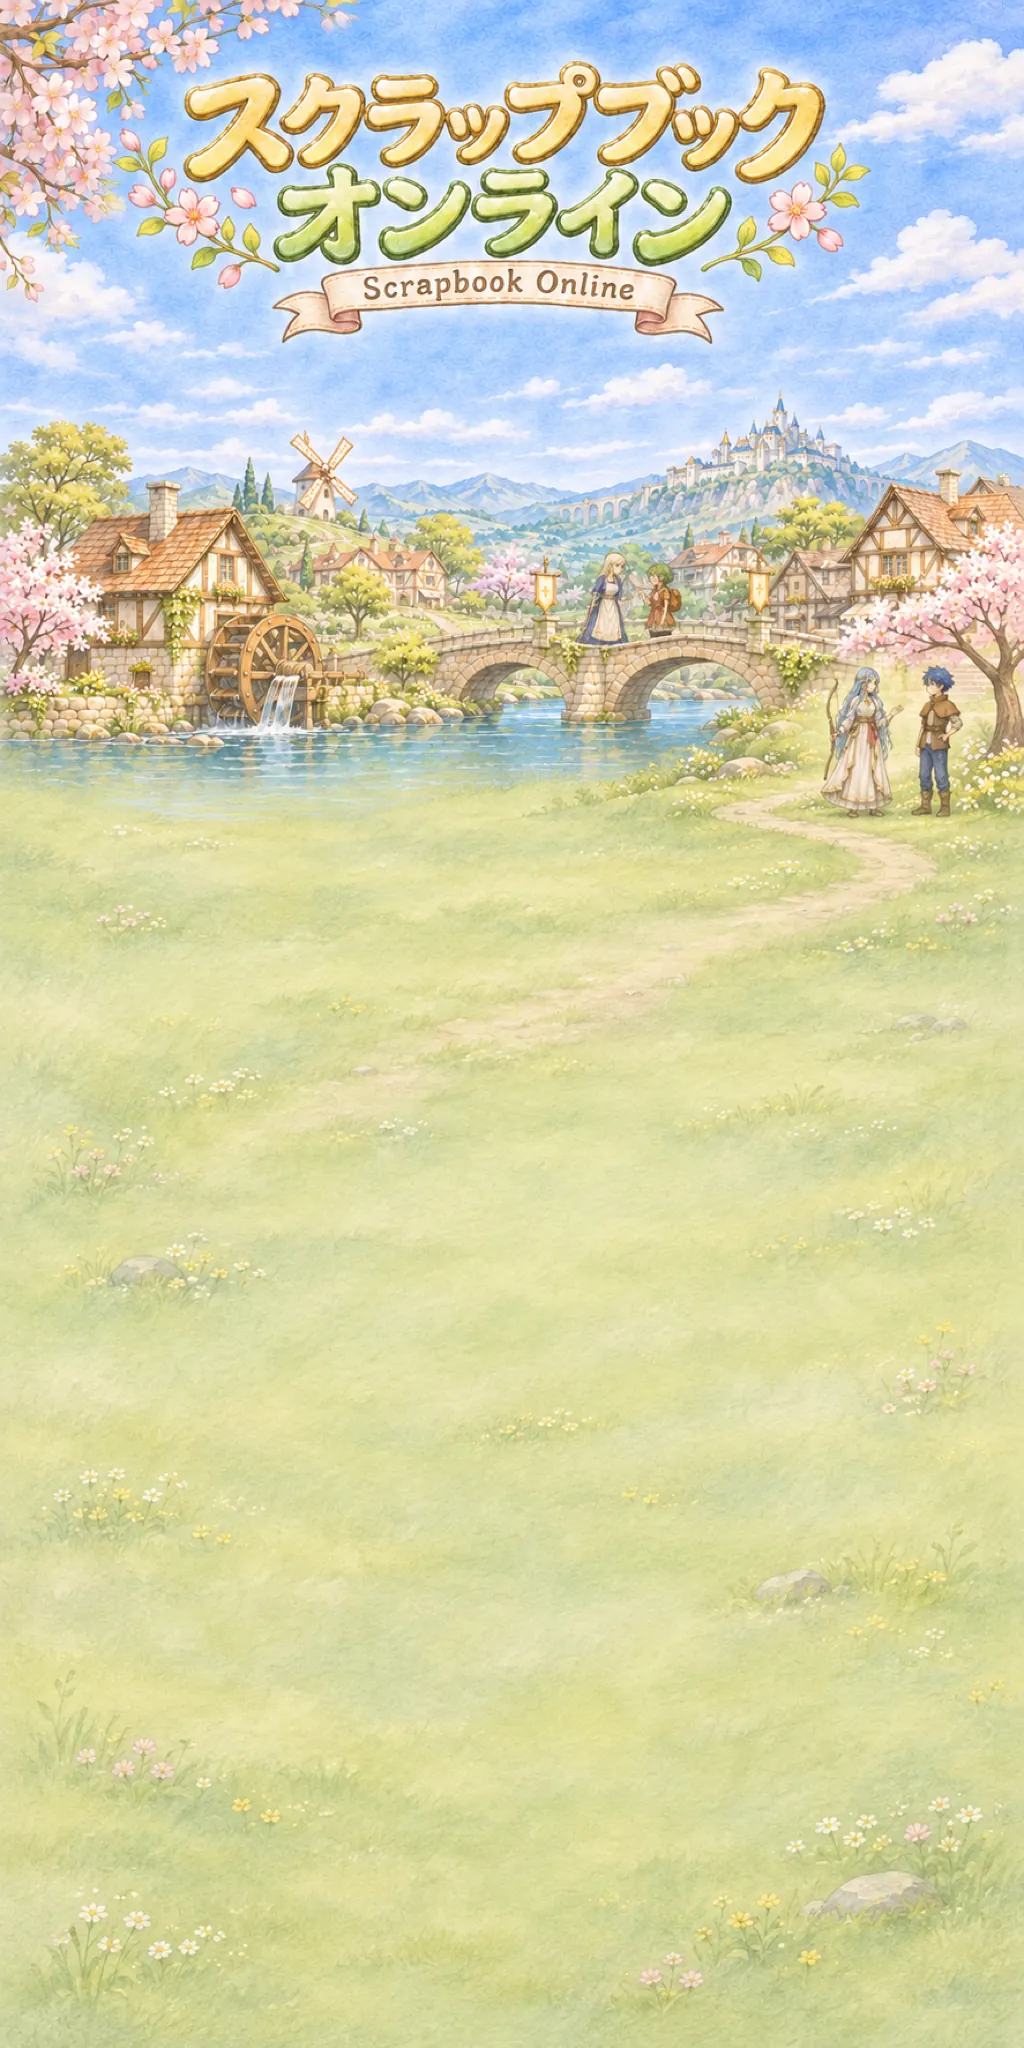
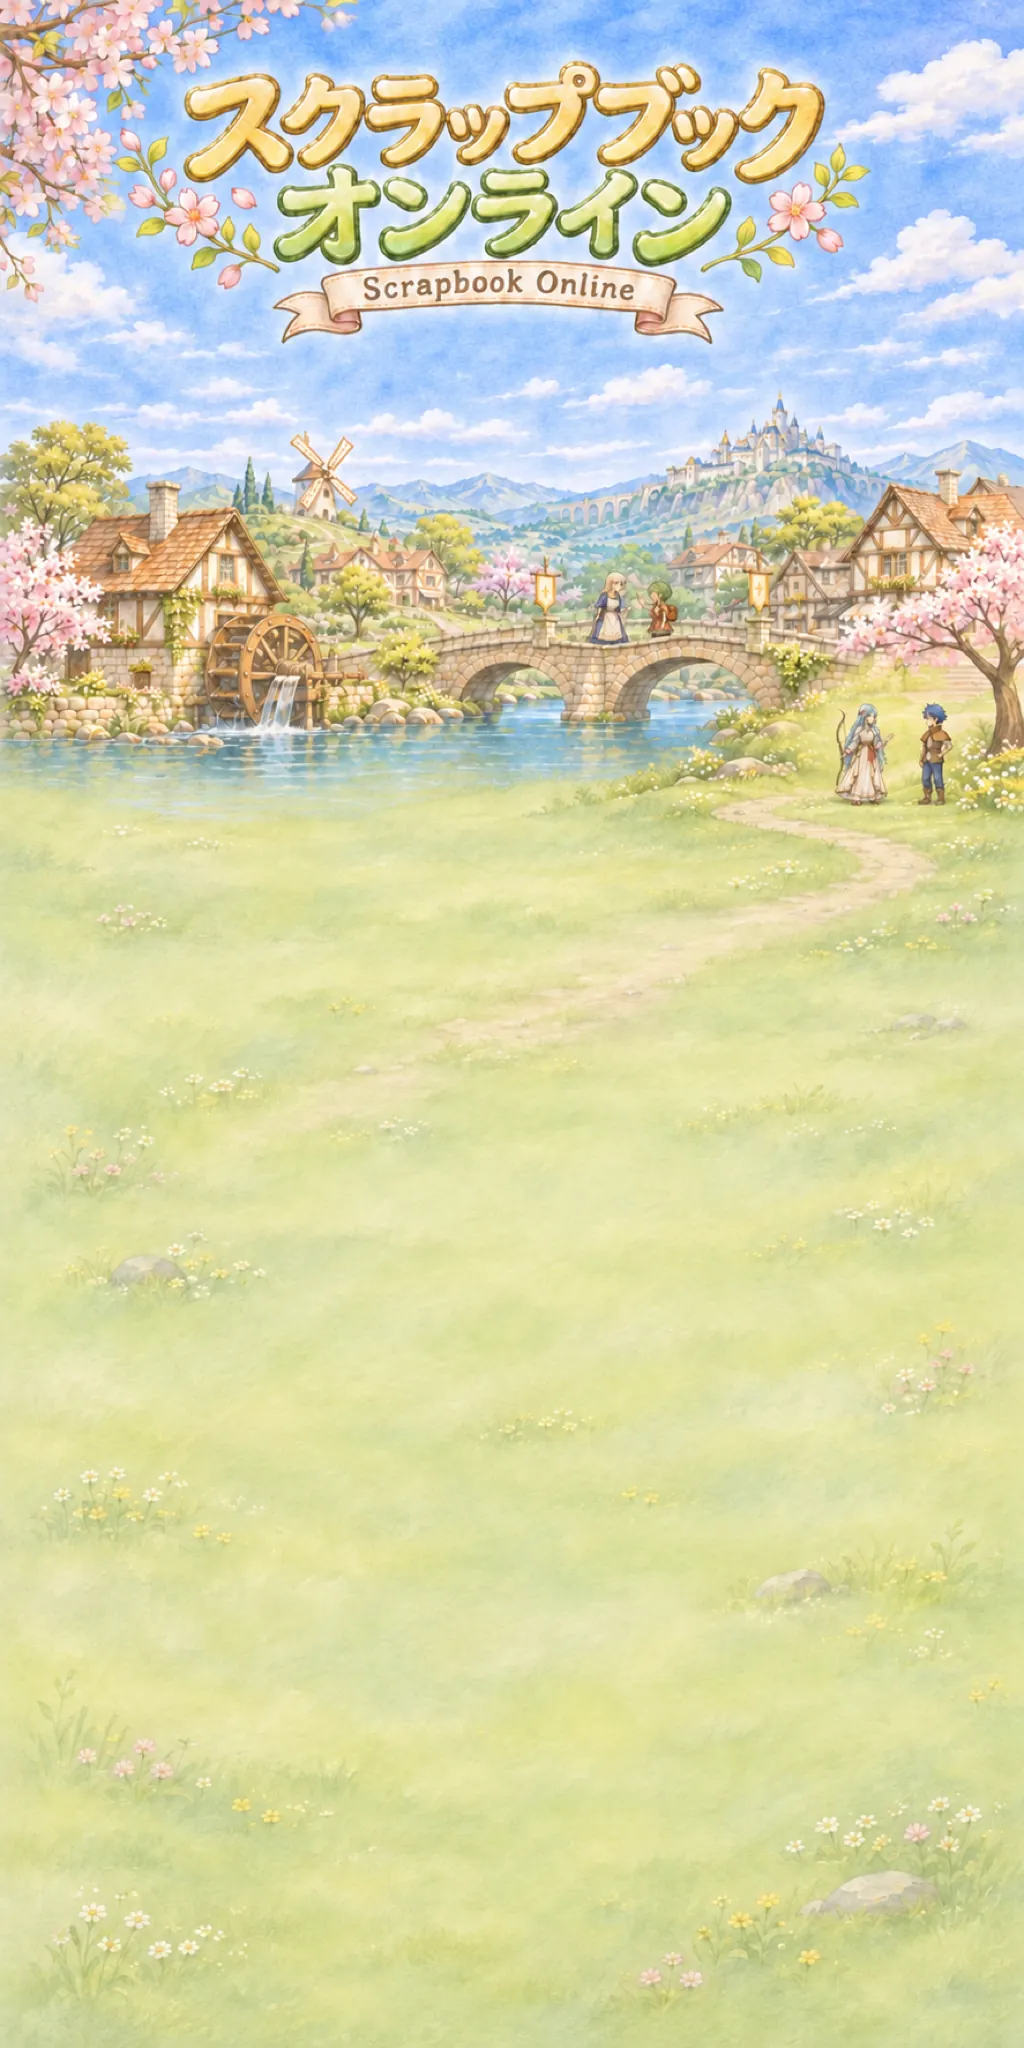
ログイン前ホーム画面：人物を小さくした背景に差し替え、PCのボタンを小道の中央に戻す
Claude-Session: https://claude.ai/code/session_01YTg7wiWpiHL6LhZnJLwoce

diff --git a/web/shell/sbocli.html b/web/shell/sbocli.html
@@ -1573,7 +1573,7 @@
 		--bg-ratio: 2;
 		--town-bottom: 0.42;
 		--bg-w: max(100vw, calc(100dvh / 2));
-		--bg-end: #cdd09b;
+		--bg-end: #ccd496;
 		--bg-h: calc(var(--bg-w) * var(--bg-ratio));
 		display: block;
 		overflow-x: hidden;
@@ -1645,8 +1645,8 @@
 		}
 	}
 	/* PC・横長（幅 900px 以上・高さ 560px 以上・横長）：絵は cover/center で固定。ロゴ・町（上〜約 50%）には何も重ねない。
-	   遊ぶボタンは小道の中央（絵の縦 83% 付近）、アカウント・管理は左下の草原、お知らせは右下の草原、リンクは最下段の帯。
-	   橋の上の 2 人（幅 49〜56%・縦 37〜46%）と小道の右の 2 人（幅 61〜74%・縦 63〜82%）には何も重ねない。 */
+	   遊ぶボタンは小道の中央（絵の縦 78〜88%）、アカウント・管理は左下の草原、お知らせは右下の草原、リンクは最下段の帯。
+	   橋の上の 2 人（幅 52〜57%・縦 37〜42%）と小道の右の 2 人（幅 60〜65%・縦 57〜67%）には何も重ねない。 */
 	@media (min-width: 900px) and (min-height: 560px) and (min-aspect-ratio: 5/4) {
 		body.sbo-loginscr #sbo-quick.sbo-show {
 			display: flex;
@@ -1692,13 +1692,14 @@
 			--ox: calc((100vw - var(--iw)) / 2);
 			--sbo-pt: min(calc(var(--ih) * 0.55), 58vh);
 		}
-		/* 遊ぶボタン：右の人物（縦 63〜82%）の下、絵の縦 83〜90% あたりの小道の中央。低い画面ではリンクの帯の上に収める */
+		/* 遊ぶボタン：小道の中央（横 50%）、絵の縦 88% の位置を下端に。右の人物（横 60%〜・縦 57〜67%）の下。
+		   低い画面ではリンクの帯の上に収める */
 		body.sbo-loginscr .sbo-home .sbo-col-play {
 			position: absolute;
-			left: 50%; top: min(calc(var(--ih) * 0.9), calc(100vh - 60px));
+			left: 50%; top: min(calc(var(--ih) * 0.88), calc(100vh - 68px));
 			transform: translate(-50%, -100%);
-			/* 高さが足りず絵の縦 83% まで下げられない時、右の人物（横 61%〜）にかからないよう幅を絞る */
-			width: min(420px, max(250px, calc(2 * (var(--ox) + var(--iw) * 0.61 - 50vw) - 24px)));
+			/* 幅 300〜400px。高さが足りず上へ上がる時は、右の人物（横 59%〜）にかからないよう幅を絞る */
+			width: min(400px, max(250px, calc(2 * (var(--ox) + var(--iw) * 0.59 - 50vw) - 24px)));
 			gap: 6px;
 		}
 		body.sbo-loginscr .sbo-home .sbo-col-play .sbo-btn {
@@ -1724,7 +1725,7 @@
 			left: 12px;
 			width: min(300px, max(180px, calc(var(--ox) + var(--iw) * 0.22 - 12px)));
 		}
-		/* 右の草原（絵の横 78〜100%）に。右の人物（61〜74%）とは重ならない */
+		/* 右の草原（絵の横 78〜100%）に。右の人物（60〜65%）とは重ならない */
 		body.sbo-loginscr .sbo-home .sbo-news {
 			right: 12px;
 			width: min(300px, max(180px, calc(var(--ox) + var(--iw) * 0.22 - 12px)));
@@ -1732,8 +1733,9 @@
 		body.sbo-loginscr .sbo-news:not(.sbo-has) { display: none; }
 		body.sbo-loginscr .sbo-home .sbo-links {
 			position: absolute;
-			/* 右端は小道の右の人物（横 61%〜）の手前まで。足元にかからないよう、中央ではなく左寄せ気味に置く */
-			right: max(12px, calc(100vw - var(--ox) - var(--iw) * 0.61 + 12px));
+			/* 最下段の中央 */
+			left: 50%;
+			transform: translateX(-50%);
 			bottom: max(8px, env(safe-area-inset-bottom));
 			width: max-content;
 			max-width: calc(100% - 24px);
